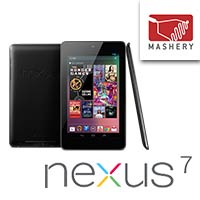
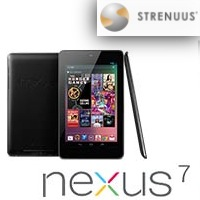
Google Nexus 7 Prize + API Link

diff --git a/index.html b/index.html
@@ -257,10 +257,6 @@
         <p>The first is a <b>Special Award Category</b> for apps that <b>aren't</b> tied to usage of a particular API. These include best app(s) built on Google Fiber and *might* also include "Best Mobile App" or "Best Design", etc. 
         <p>The <b>second</b> way is to use one (or more) of the listed APIs for an attempt to win the corresponding prize</p>
          <article>
-          <a href="http://gopro.com/cameras/hd-hero2-motorsports-edition/" class="textLink"><img src="img/prizes/gopro.jpg" alt="The GoPro Hero"></a>
-          <h3>HD Hero2 Camera: Motorsports Edition</h3>
-          <p>Given to the best app that's been built on the <a href="http://dev.iron.io/ target="blank"" target="_blank">Iron.io API</a>.</p>
-        </article><article>
           <a href="http://amazon.com"><img src="img/prizes/amazoncard.jpg" alt="Amazon Gift Card up to $500"></a>
           <h3>Up to $500 of Amazon Gift Cards</h3>
           <p>Given to the best app that's been built on the <a href="http://docs.sendgrid.com/documentation/api/web-api/" target="blank">Sendgrid API</a>.</p>
@@ -272,6 +268,10 @@
         <a><img src="img/prizes/ipad3tumblr.jpg" alt="iPad3"></a>
           <h3>iPad3</h3>
           <p>Given to the best app that's been built on the <a href="http://www.tumblr.com/docs/en/api/v2" target="blank">Tumblr API</a>.</p>
+        </article><article>
+        <a><img src="img/prizes/nexus7.jpg" alt="Nexus 7"></a>
+          <h3>Google Nexus 7</h3>
+          <p>Given to the best app that's been built on the <a href="https://beta.network360.com/apidoc" target="blank">Strenuus API</a>.</p>
         </article><article>
           <a href="http://ardrone2.parrot.com/"><img src="img/prizes/parrotAR.jpg" alt="Parrot AR Drone"></a>
           <h3>Parrot AR Drone 2.0</h3>
@@ -288,6 +288,10 @@
         <a><img src="img/prizes/ipad3.jpg" alt="iPad3 16gb WiFi"></a>
           <h3>iPad 16gb WiFi</h3>
           <p>Given to the best app that's been built on the <a href="http://www.birt-exchange.org/org/new-to-birt/" target="blank">BIRT API</a>.</p>
+        </article><article>
+          <a href="http://gopro.com/cameras/hd-hero2-motorsports-edition/" class="textLink"><img src="img/prizes/gopro.jpg" alt="The GoPro Hero"></a>
+          <h3>HD Hero2 Camera: Motorsports Edition</h3>
+          <p>Given to the best app that's been built on the <a href="http://dev.iron.io/ target="blank"" target="_blank">Iron.io API</a>.</p>
         </article>
       </div><!-- end #prizes -->
       <hr>
